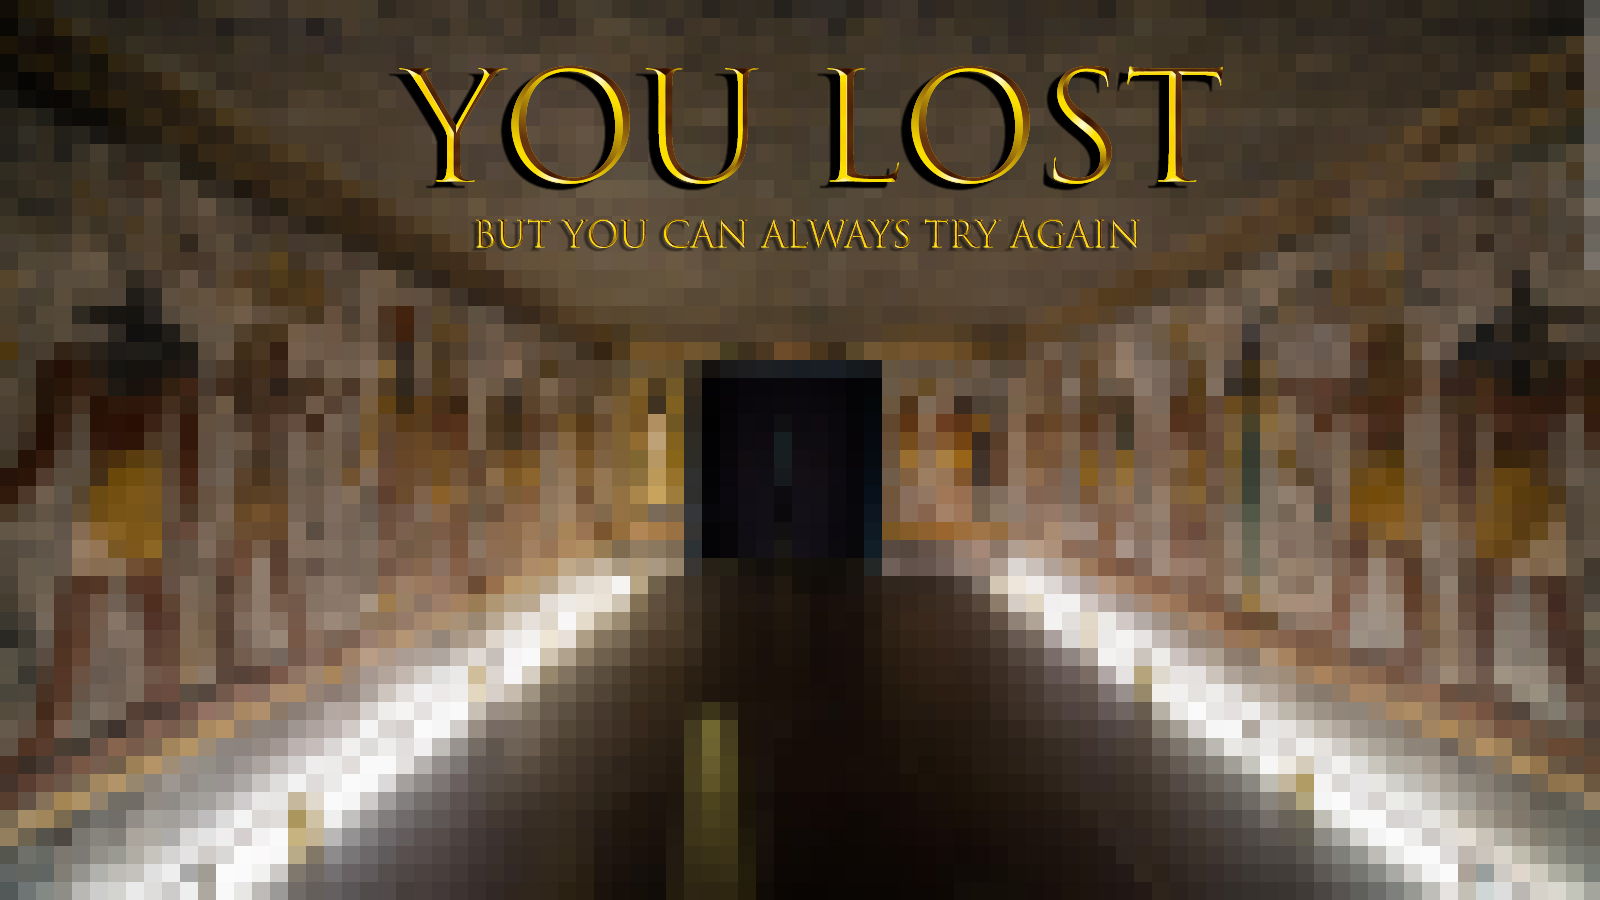
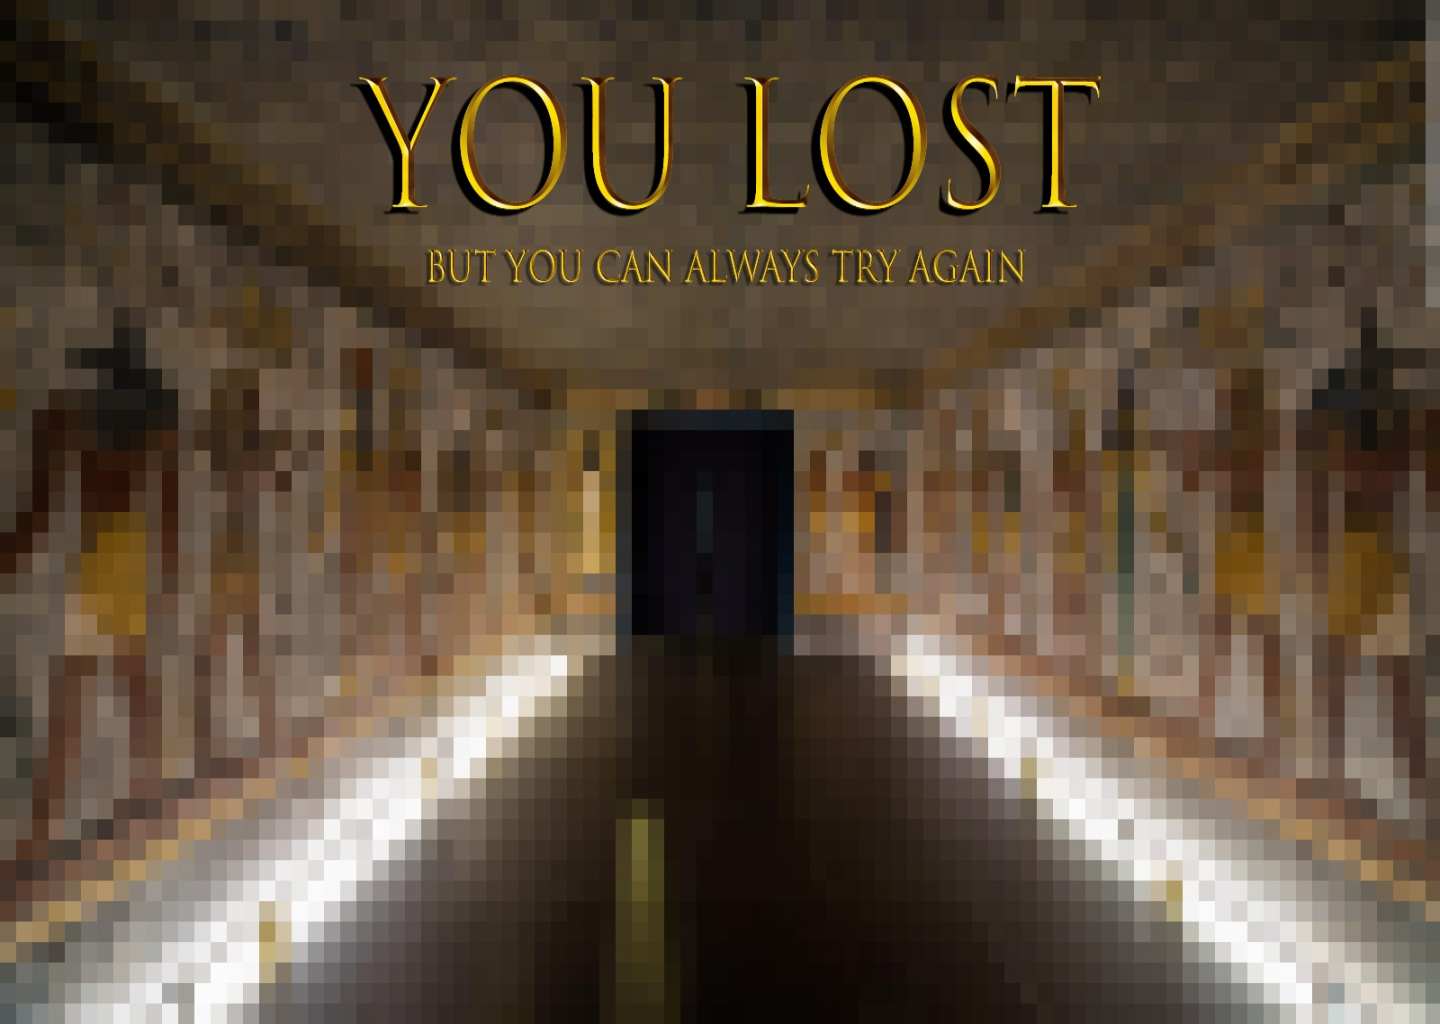
Routing resized jpegs

diff --git a/PygameVisual.py b/PygameVisual.py
@@ -5,35 +5,35 @@ import random
 
 dialogue = {
     'Scenario1': ['Choose your character',
-                 ['Pharaoh', 'Priest', 'Farmer'], ['Scenario2', 'Scenario2', 'Scenario2'], [[15,50,0,3], [10,60,1,5], [15,70,0,7]], ['PyramidBackground.png', 'Anubis.png'] ],
+                 ['Pharaoh', 'Priest', 'Farmer'], ['Scenario2', 'Scenario2', 'Scenario2'], [[15,50,0,3], [10,60,1,5], [15,70,0,7]], ['PyramidBackground.jpg', 'Anubis.png'] ],
     'Scenario2': ['We must make haste to the hall of two truths, so that your soul can be weighed against a feather and we can learn whether you may pass into the afterlife. Any questions? \n “W- w-” \n “Good! Let’s get on with it then.” Anubis rushes out of the room with no further words, what will you do?.',
-                 ['follow him', 'ignore him, and stay where you are'], ['Scenario3', 'ScenarioEnd'], [[-1,0,0], [-1,0,0], [-1,0,0]], ['PyramidBackground.png', 'Anubis.png']],
+                 ['follow him', 'ignore him, and stay where you are'], ['Scenario3', 'ScenarioEnd'], [[-1,0,0], [-1,0,0], [-1,0,0]], ['PyramidBackground.jpg', 'Anubis.png']],
     'Scenario3': ['You follow him into a crowd, but soon you lose sight of him... you look around, there is a traveler standing by themselves at the wall, what would you like to do?',
-                 ['Approach them and ask for directions', 'Fight them for food (or bragging rights)', 'make your way on your own'], ['Scenario4', 'ScenarioFight', 'Scenario6'], [[-1,0,0], [-1,0,0], [-1,0,0]],['PyramidBackground.png', 'Anubis.png']],
+                 ['Approach them and ask for directions', 'Fight them for food (or bragging rights)', 'make your way on your own'], ['Scenario4', 'ScenarioFight', 'Scenario6'], [[-1,0,0], [-1,0,0], [-1,0,0]],['Cavern.jpg']],
     'Scenario4': ['You approach the stranger. She turns around and you notice her appearance. She had the body of a leopard, but her head was that of a hippopotamus. She held a "Khopesh", a massive sword and sickle hybrid. When she spoke, her voice was powerful and intimidating."Hello weary traveler, I am Henet Requ, guardian of the portal of fire. You look lost, would you like my assistance?"',
-                 ['Accept her offer', 'Make your way on your own', 'challenge her to a dance off'], ['Scenario5', 'Scenario6', 'ScenarioEnd'], [[-1,0,0], [-1,0,0], [-1,0,0]],['PyramidBackground.png', 'Henet.jpg']],
+                 ['Accept her offer', 'Make your way on your own', 'challenge her to a dance off'], ['Scenario5', 'Scenario6', 'ScenarioEnd'], [[-1,0,0], [-1,0,0], [-1,0,0]],['Cavern.jpg', 'Henet.jpg']],
     'Scenario5': ['"Hello Henet, I was following Anubis but seem to have lost my way, do you know the way to the Hall of Maat?" Her brow furrowed. I do know the way, although it is very treacherous. You must follow me.',
                  ['Follow her', 'come on seriously, follow her', 'why are you not trusting Henet'], ['ScenarioEnd', 'ScenarioEnd', 'ScenarioEnd'], [[-1,0,0], [-1,0,0], [-1,0,0]],['PyramidBackground.png', 'Henet.jpg']],
     'Scenario6': ['You try to make it through crowd on your own. Eventually after fighting the current of souls you see a gate . There appear to be two options, a water and land route. What do you do?',
-                 ['Approach the land route gate.','Approach the water route'], ['ScenarioEnd', 'ScenarioEnd'], [[0,0,0], [0,0,0], [0,0,0]],['PyramidBackground.png', 'Anubis.png']],
+                 ['Approach the land route gate.','Approach the water route'], ['ScenarioEnd', 'ScenarioEnd'], [[0,0,0], [0,0,0], [0,0,0]],['PyramidBackground.png']],
     #'Scenario7': ['',[],[]]
     #'Scenario8': ['',[],[]]
     #'Scenario9': ['',[],[]]
     #'Scenario10': ['',[],[]]
     #'Scenario11': ['',[],[]]
-    'ScenarioEnd': ['Alas, you perish, never to set eyes on the Hall of Maat. Thanks for playing!', ['you lose', 'you lose (even more horribly)'], ['Scenario1', 'Scenario1'],[[0,0,0], [0,0,0], [0,0,0]],['PyramidBackground.png', 'Anubis.png']]
+    'ScenarioEnd': ['Alas, you perish, never to set eyes on the Hall of Maat. Thanks for playing!', ['you lose', 'you lose (even more horribly)'], ['Scenario1', 'Scenario1'],[[0,0,0], [0,0,0], [0,0,0]],['Youlost.jpg']]
     }
 
-file_path1 = '/home/sander/Documents/OrganTrail/'
+file_path1 = '/home/cmay/Documents/OrganTrail/'
 
 def resize(file_name, xDimension, yDimension):
     global file_path1
     file_path = file_path1 + file_name
     img = cv2.imread(file_path)
-    imgResized = cv2.resize(img, (xDimension, yDimension), cv2.INTER_AREA) #INTER_AREA
+    imgResized = cv2.resize(img, (xDimension, yDimension), cv2.INTER_CUBIC) #INTER_AREA
     cv2.imwrite(file_path, imgResized)
 
-#resize('Henet.jpg',150,150)
+# resize('Cavern.jpg',1440,1024)
 #resize('ArrowKeyRight.png',100,100)
 #resize('ArrowKeyUp.png',100,100)
 
@@ -55,7 +55,7 @@ def fight(strength, health, currentScenario, lastScenario):
 def multiline_render(text, x, y, font):
     lines = text.splitlines()
     for i,l in enumerate(lines):
-        screen.blit(font.render(l, 0, black), (x, y + font.get_linesize()*i))
+        screen.blit(font.render(l, 0, white), (x, y + font.get_linesize()*i))
 
 def visualize(currentScenario, health, strength):
     global dialogue
@@ -85,15 +85,15 @@ def visualize(currentScenario, health, strength):
         screen.blit(avatar_image, [100, 150])
     screen.blit(leftKey, [560, 820])
     screen.blit(rightKey, [780, 820])
-    screen.blit(font.render(healthText, 0, black), [1200, 50])
-    screen.blit(font.render(strengthText, 0, black), [1200, 100])
-    screen.blit(font.render(option1, 0, black), [435, 860])
-    screen.blit(font.render(option2, 0, black), [900, 860])
+    screen.blit(font.render(healthText, 0, white), [1200, 50])
+    screen.blit(font.render(strengthText, 0, white), [1200, 100])
+    screen.blit(font.render(option1, 0, white), [435, 860])
+    screen.blit(font.render(option2, 0, white), [900, 860])
     numOptions = len(dialogue[currentScenario][1])
     if numOptions == 3:
         option3 = dialogue[currentScenario][1][2]
         screen.blit(upKey, [670, 700])
-        screen.blit(font.render(option3, 0, black), [680, 660])
+        screen.blit(font.render(option3, 0, white), [680, 660])
 
 
 pygame.init()
